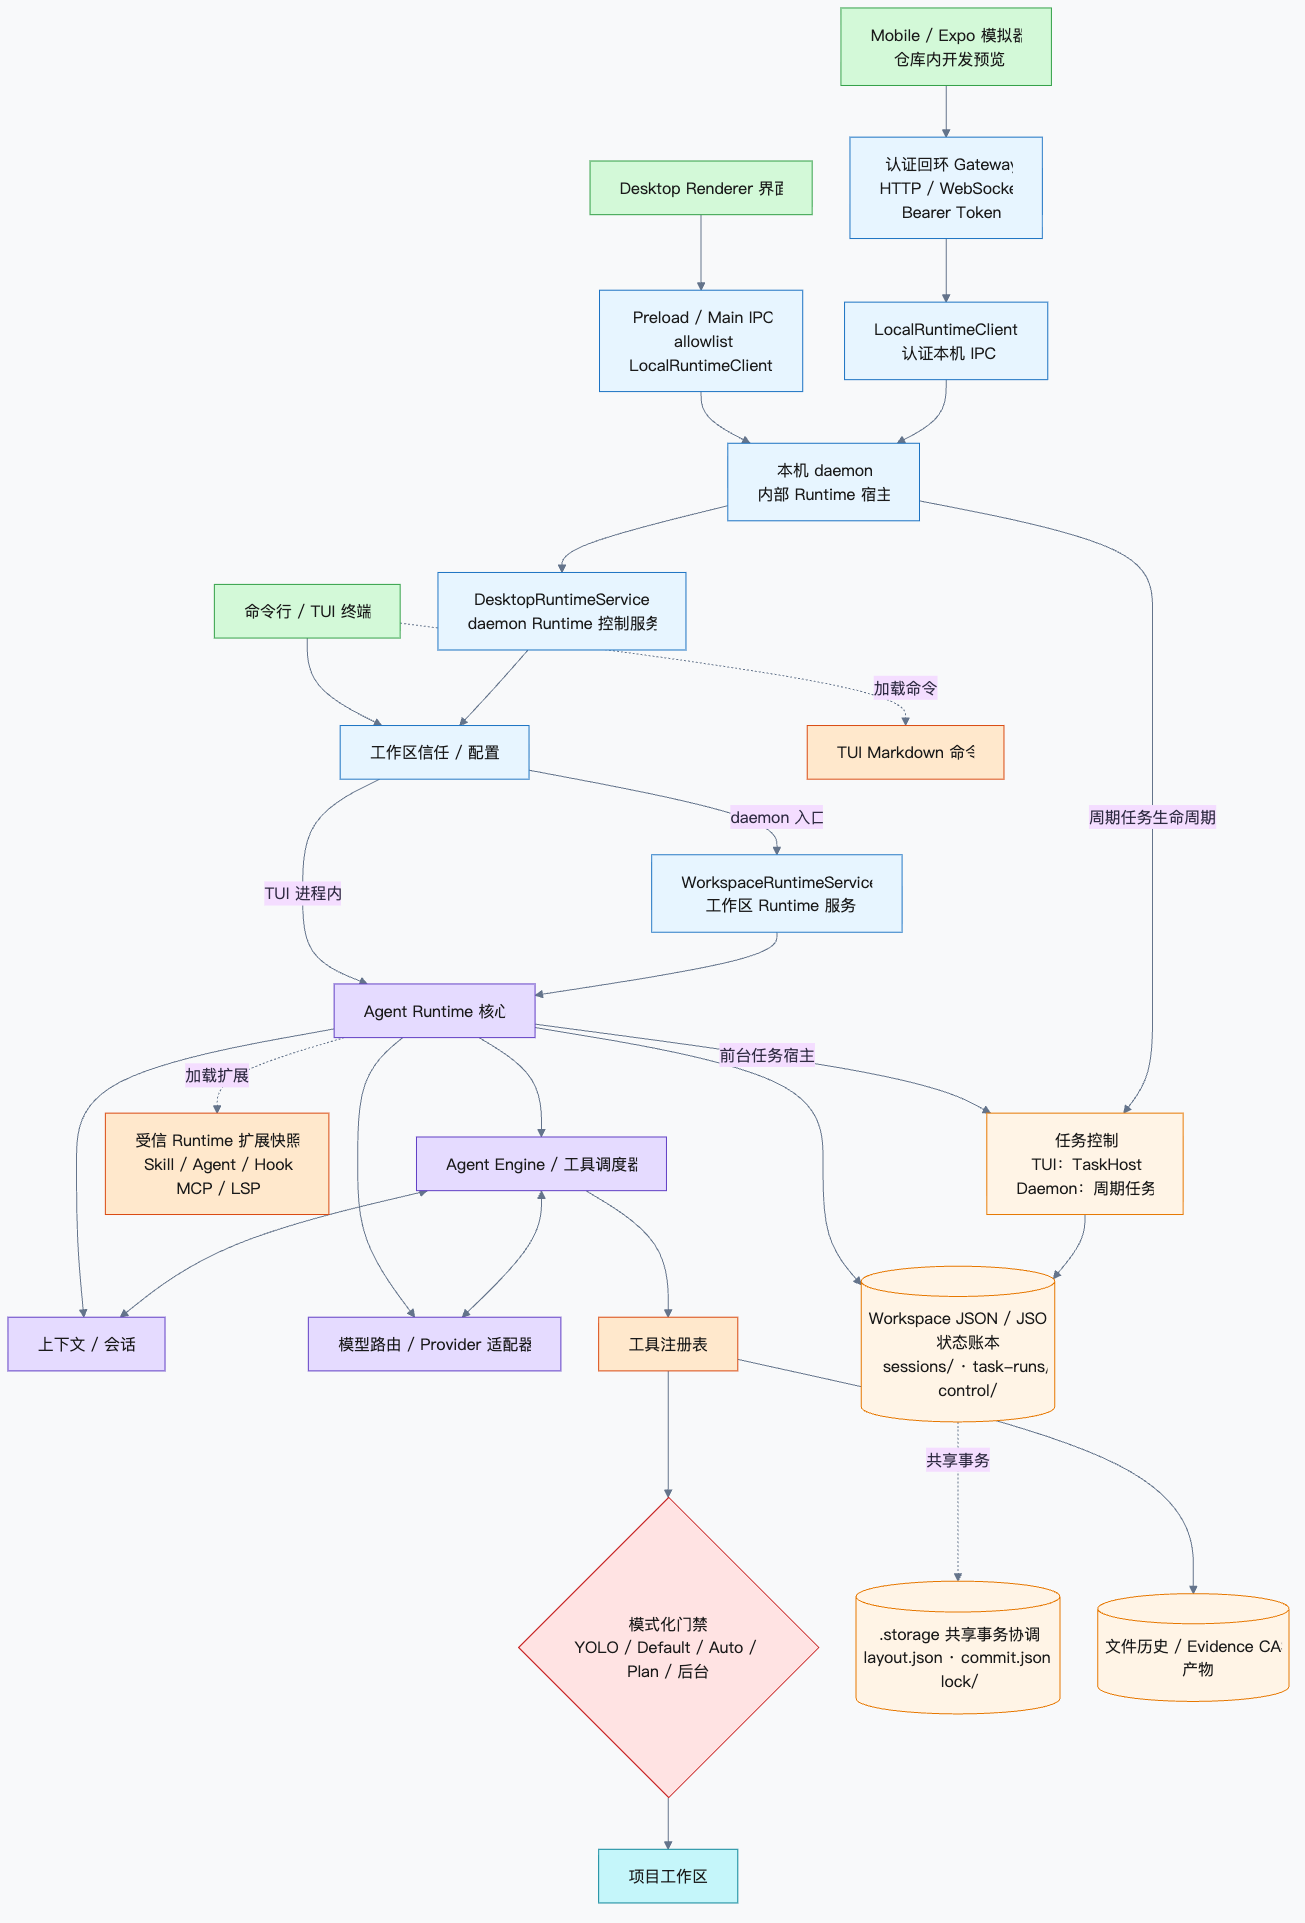
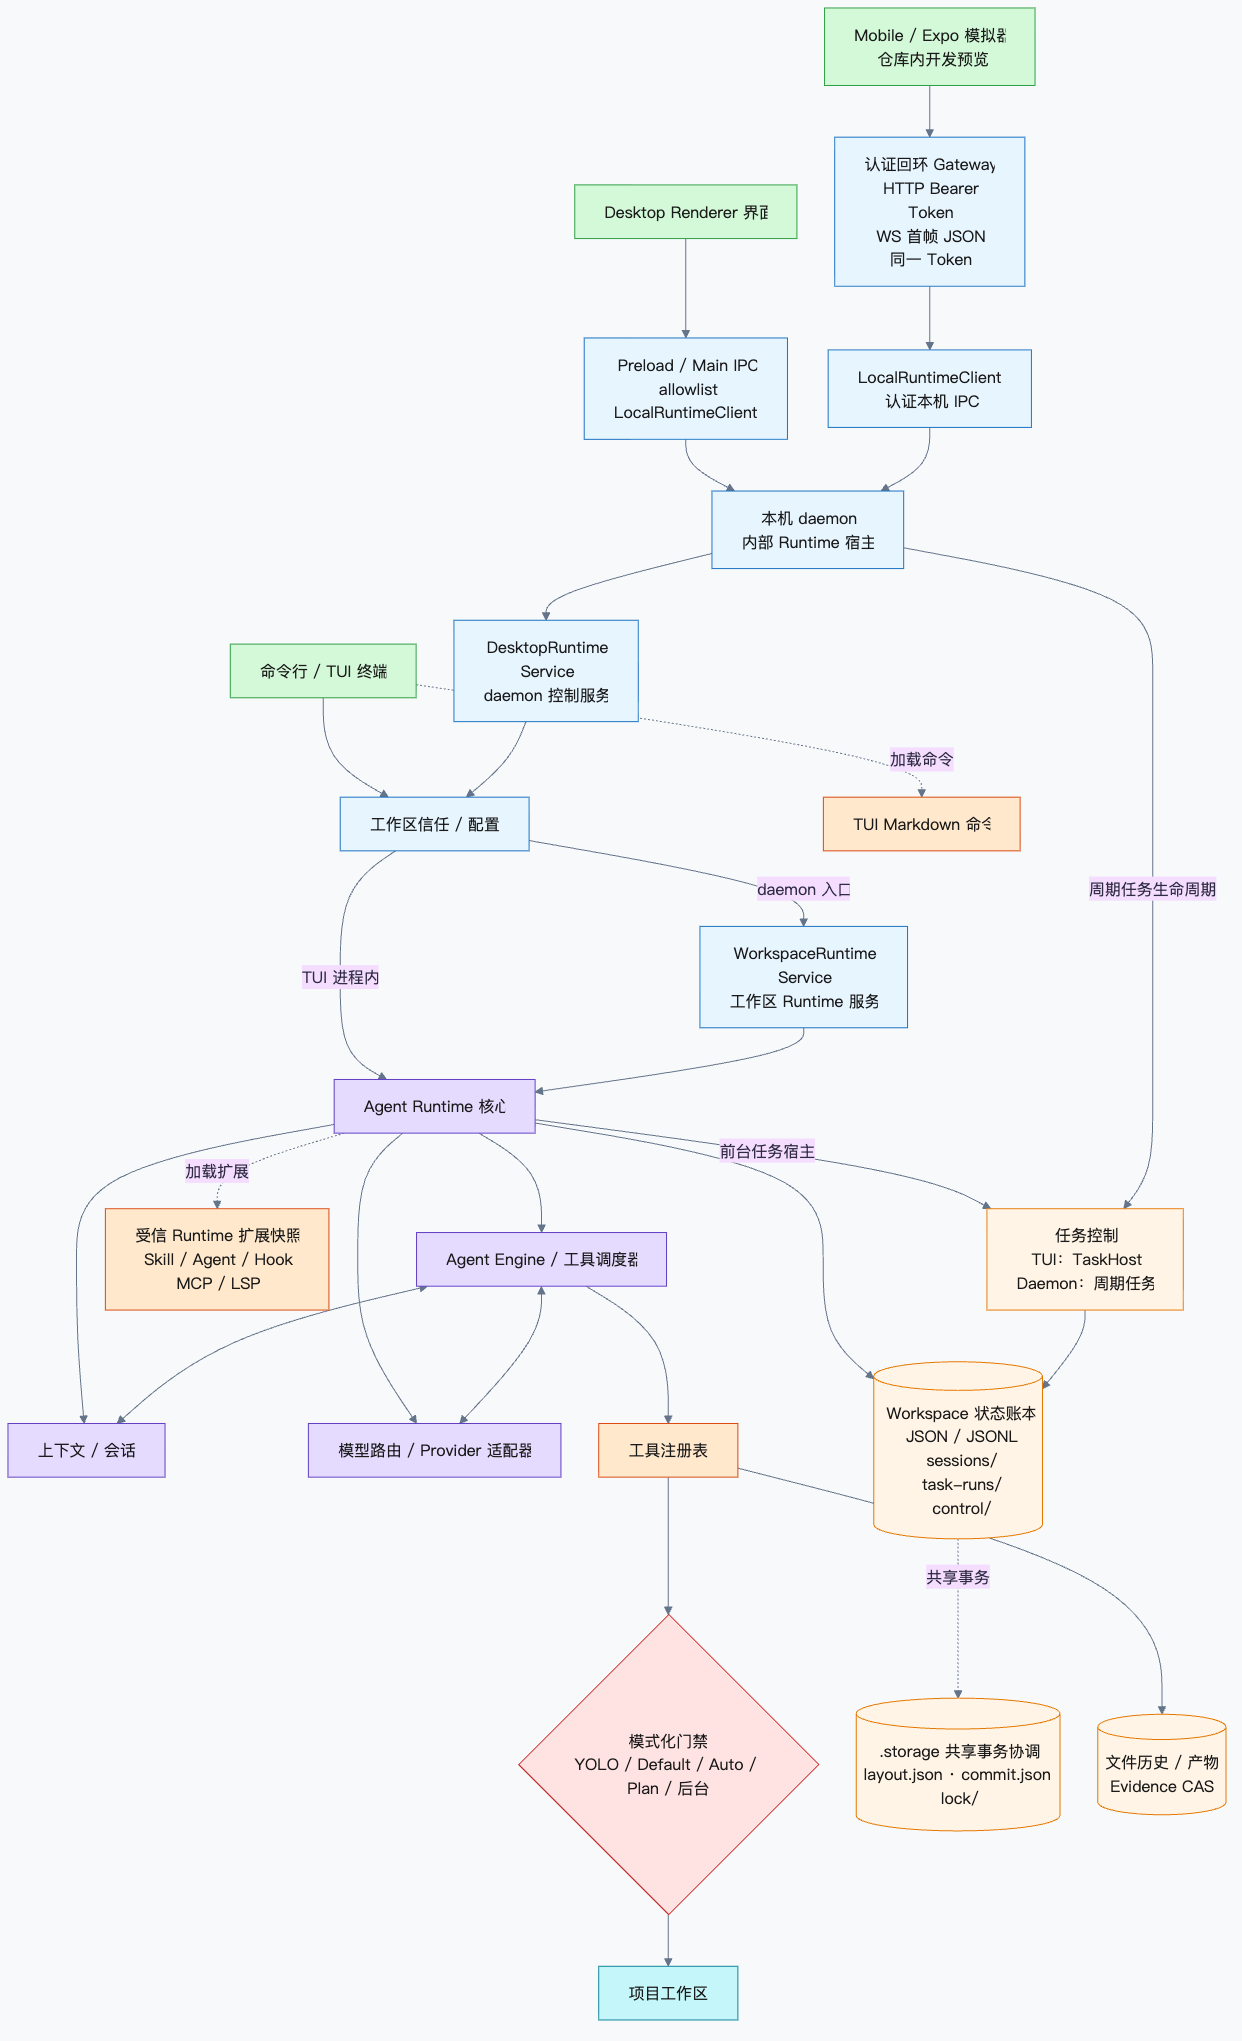
docs(architecture): 校准移动端鉴权与架构图

diff --git a/README.md b/README.md
@@ -21,7 +21,7 @@
 | Mobile / Gateway | 仓库内开发预览    | Expo 客户端通过带认证的回环 Gateway 访问本机 daemon；仅供本机 iOS / Android 模拟器，不支持远程 |
 | 本机 daemon      | 内部 Runtime 宿主 | 承载 Desktop、Mobile 开发预览和持久 Cron；通过本机 IPC 通信，自身不监听网络端口                |
 
-当前没有公开的 REST/WebSocket、ACP、one-shot/headless API、Docker 部署或 Linux Desktop 发布入口。Mobile Gateway 虽提供带 Bearer Token 认证的 HTTP/WebSocket，但固定绑定 `127.0.0.1`，只服务本机模拟器开发预览，不构成公开 API 或兼容性承诺。根包为 `private: true`，当前安装方式是源码构建与本地链接，不是 npm 公共包。仓库内 benchmark 可使用[内部 Headless One-shot Runner](./docs/internal-headless-one-shot.md)；它同样不是产品入口。
+当前没有公开的 REST/WebSocket、ACP、one-shot/headless API、Docker 部署或 Linux Desktop 发布入口。Mobile Gateway 的 HTTP 请求使用 Bearer Token；WebSocket 则在连接后用首个 JSON 帧提交同一 Token。Gateway 固定绑定 `127.0.0.1`，只服务本机模拟器开发预览，不构成公开 API 或兼容性承诺。根包为 `private: true`，当前安装方式是源码构建与本地链接，不是 npm 公共包。仓库内 benchmark 可使用[内部 Headless One-shot Runner](./docs/internal-headless-one-shot.md)；它同样不是产品入口。
 
 ## 架构概览
 
@@ -33,7 +33,7 @@
 
 - TUI：`CLI → TUI → 工作区信任/配置 → AgentRuntime`，前台执行不需要绕行 daemon。
 - Desktop：`Renderer → sandbox preload bridge → Electron IPC allowlist → LocalRuntimeClient → 本机 daemon → DesktopRuntimeService → WorkspaceRuntimeService → AgentRuntime`。
-- Mobile 开发预览：`Expo 模拟器客户端 → Bearer Token 认证的回环 HTTP/WebSocket Gateway → LocalRuntimeClient → 本机 daemon → DesktopRuntimeService → WorkspaceRuntimeService → AgentRuntime`。
+- Mobile 开发预览：`Expo 模拟器客户端 → 回环 Gateway（HTTP Bearer Token；WebSocket 首个 JSON 帧使用同一 Token 鉴权）→ LocalRuntimeClient → 本机 daemon → DesktopRuntimeService → WorkspaceRuntimeService → AgentRuntime`。
 
 Desktop 与 Mobile Gateway 进入 daemon 后都使用版本化本机 IPC 协议、4 字节长度前缀 JSON 帧和 1 MiB 帧上限；端点是 POSIX socket 或 Windows named pipe，并带本机认证。它是同一用户边界内的内部协议，不是网络服务。
 

diff --git a/ARCHITECTURE.md b/ARCHITECTURE.md
@@ -19,7 +19,7 @@ Desktop
 
 Mobile 开发预览（仅本机模拟器）
   Expo client
-    └─ loopback HTTP / WebSocket + 临时 Token
+    └─ loopback HTTP Bearer / WebSocket 首帧 Token
          └─ MobileGateway
               └─ LocalRuntimeClient
 
@@ -42,9 +42,9 @@ Renderer 不直接访问 Node.js 或 Runtime，而是经类型化 Preload、Elec
 daemon 调用同一个 Runtime。daemon 只提供当前用户本机 IPC，不开放网络传输。
 
 `apps/mobile` 是本机 iOS / Android 模拟器的开发预览，不是第三个公开产品入口。显式启动的
-`src/mobile-gateway` 独立进程只监听 `127.0.0.1`，用临时 Token 暴露有界 HTTP / WebSocket
-能力，再通过 `LocalRuntimeClient` 连接 daemon；它只投影已注册且仍受信的工作区，不把
-workspace 路径或 daemon 协议直接暴露给 Mobile。
+`src/mobile-gateway` 独立进程只监听 `127.0.0.1`；HTTP 请求使用 Bearer Token，WebSocket
+连接后的首个 JSON 帧使用同一临时 Token。Gateway 再通过 `LocalRuntimeClient` 连接 daemon；
+它只投影已注册且仍受信的工作区，不把 workspace 路径或 daemon 协议直接暴露给 Mobile。
 
 `packages/protocol` 定义 daemon 方法、参数、结果、事件和 Desktop 可访问方法白名单。
 Electron Main 只转发白名单内的方法，Renderer 只依赖 `DesktopBridge` 类型。

diff --git a/docs/pico-harness-architecture-guide-image.md b/docs/pico-harness-architecture-guide-image.md
@@ -65,9 +65,10 @@ RuntimeEvent 和后台 Job 的事实仍由共享 Runtime 与 daemon 所有，Des
 状态。
 
 仓库还有一个 Expo Mobile 客户端，但它目前只是本机 iOS / Android 模拟器的开发预览。
-显式运行 `npm run mobile:gateway` 后，独立 Gateway 仅在 `127.0.0.1` 上提供带临时 Token 的
-有界 HTTP / WebSocket 接口，再通过本机 IPC 连接 daemon；它只访问已注册且仍受信的工作区。
-这条桥接不是公开远程 API，也不把 Mobile 定义成第三个正式产品入口。
+显式运行 `npm run mobile:gateway` 后，独立 Gateway 仅在 `127.0.0.1` 上提供有界 HTTP /
+WebSocket 接口：HTTP 使用 Bearer Token，WebSocket 首个 JSON 帧使用同一临时 Token。
+Gateway 再通过本机 IPC 连接 daemon，并且只访问已注册且仍受信的工作区。这条桥接不是公开
+远程 API，也不把 Mobile 定义成第三个正式产品入口。
 
 历史上的 REST、WebSocket、ACP、飞书和 Docker 外壳都不属于当前产品边界。仓库内
 Headless One-shot Runner 只服务 benchmark，同样不是公开 API。

diff --git a/apps/mobile/README.md b/apps/mobile/README.md
@@ -55,8 +55,9 @@ Token 会失效；只有显式设置 `PICO_MOBILE_GATEWAY_TOKEN` 才会在开发
 
 ## 边界
 
-- Gateway 只绑定 `127.0.0.1`，请求使用 Bearer Token，实时事件使用同一 Token 完成
-  WebSocket 鉴权。
+- Gateway 只绑定 `127.0.0.1`。HTTP 请求使用 `Authorization: Bearer <token>`；WebSocket
+  连接后必须在 5 秒内用首个 JSON 帧 `{"type":"authenticate","token":"..."}` 提交同一
+  Token。
 - Mobile 只接收不含工作区绝对路径的投影；项目使用 Gateway 会话内的 opaque ID。
 - 当前能力面是项目与会话列表、会话记录、文本发送和实时运行投影，不代表公开移动端协议
   或跨版本兼容承诺。
